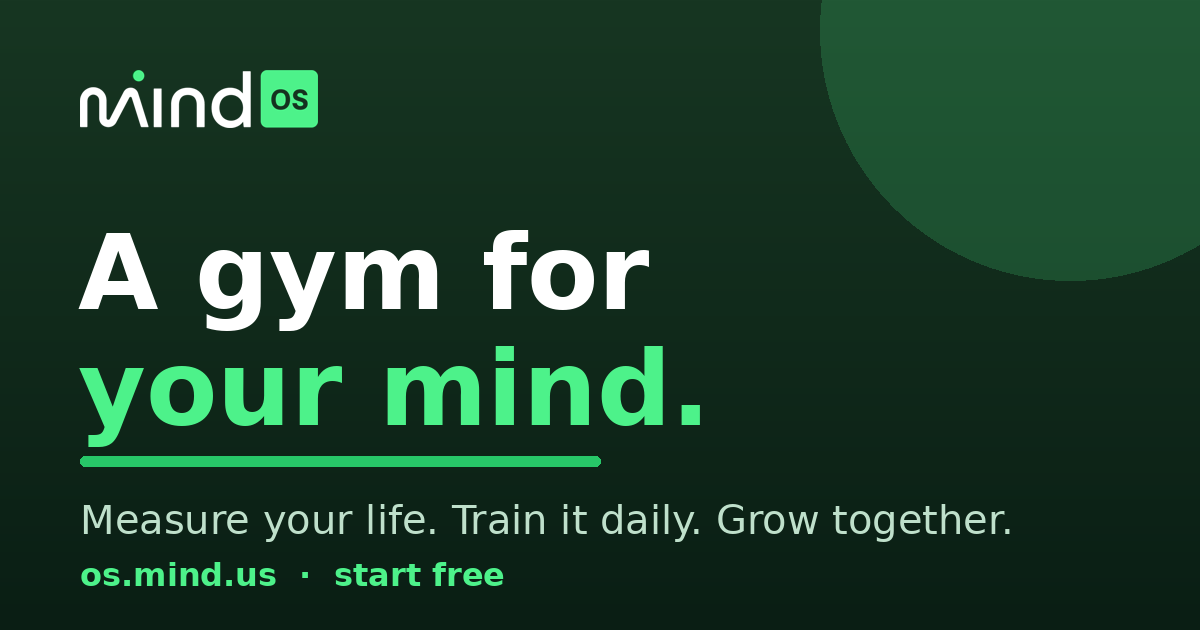
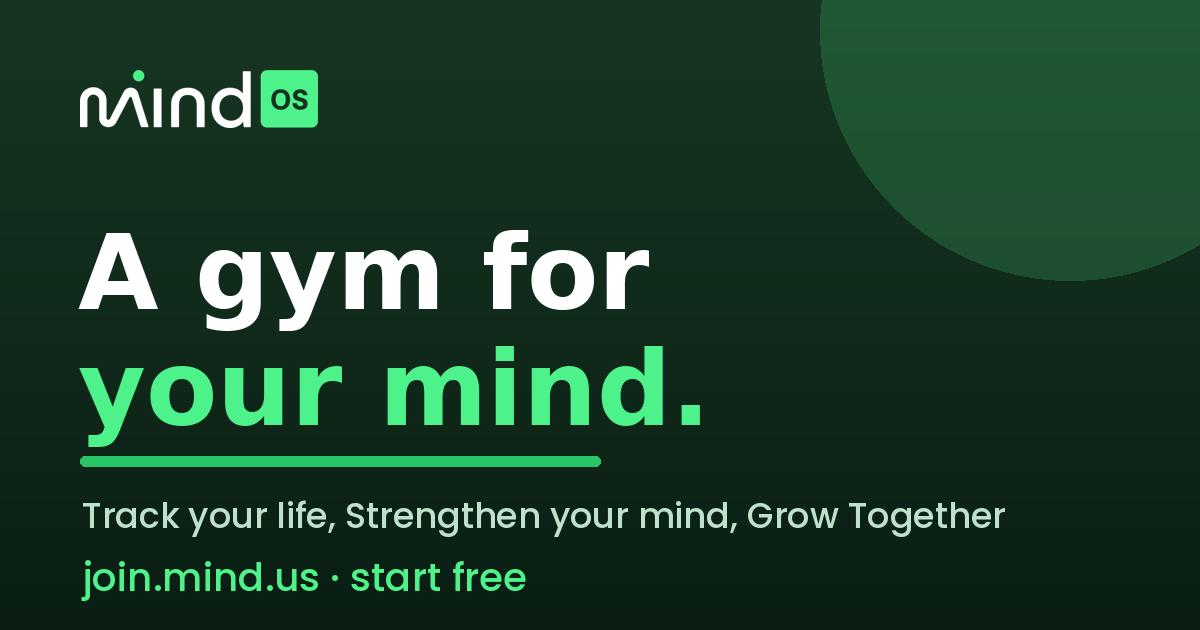
v1.3.0 (#68) Test Harness Dev popout + retain in-test features on staging
- #68: reusable Dev harness (dev-harness.js) shared by index.html + coach.html (DRY)
- Central gating helpers effectivePlan/effectiveRole/featureVisible + IN_TEST/LIVE_RELEASED registries
- Consolidates the 5 old admin test buttons into one collapsed corner popout (admin/is_test_user only)
- Live|Test env toggle (dark-launch) + View-as (Free/Advanced/Community/Coach/Leader/Admin) + persistent override banner
- Read-only write-guard (intercepts supabase insert/update/delete/upsert) while impersonating
- landing/og-image.png refreshed (Track your life / Strengthen your mind / Grow Together; join.mind.us start free)
- staging = main(v1.2.13) content, retains marketplace/POD (=Test). Live main revert deferred to Ari.

Changed region(s): [[0.0617, 0.7841, 0.8325, 0.9651]]

diff --git a/dev-harness.js b/dev-harness.js
@@ -1,0 +1,213 @@
+/* ===================================================================
+   Mind OS — Dev / Test Harness (#68)  ·  REUSABLE COMPONENT (DRY)
+   One widget, shared by the member app (index.html) and coach portal
+   (coach.html). Renders ONE collapsed "🛠 Dev" pill for test users only,
+   consolidating: (A) test actions, (B) Live|Test env toggle + staging link,
+   (C) View-as role/plan switcher, plus a persistent override banner.
+
+   Owns the client flags devEnv + viewAs (single source of truth) in
+   localStorage; the host page reads them via the getters and routes all
+   gating through its own effectivePlan()/effectiveRole()/featureVisible().
+
+   Feature-flagged: this whole surface is inert unless the page calls
+   MindOSDevHarness.init(...) for an admin / is_test_user. Rollback = don't
+   init (or set every flag off). No effect on normal members.
+   =================================================================== */
+(function(){
+  'use strict';
+  if (window.MindOSDevHarness) return; // load once
+
+  var LS_ENV='mos_devEnv', LS_VIEW='mos_viewAs', LS_OPEN='mos_devOpen';
+  function lsGet(k,d){ try{ var v=localStorage.getItem(k); return v==null?d:v; }catch(e){ return d; } }
+  function lsSet(k,v){ try{ localStorage.setItem(k,v); }catch(e){} }
+
+  var state = {
+    env:  (lsGet(LS_ENV,'live')==='test')?'test':'live',
+    view: lsGet(LS_VIEW,'me') || 'me',
+    open: lsGet(LS_OPEN,'0')==='1',
+    opts: null,
+    mounted:false
+  };
+
+  var CSS = ''
+    + '#mosDevPill{position:fixed;right:12px;bottom:12px;z-index:2147483000;'
+    +   'background:#173622;color:#fff;border:none;border-radius:22px;'
+    +   'padding:8px 13px;font:600 12px Poppins,system-ui,sans-serif;cursor:pointer;'
+    +   'box-shadow:0 4px 16px rgba(23,54,34,.32);opacity:.92;display:flex;align-items:center;gap:6px}'
+    + '#mosDevPill:hover{opacity:1}'
+    + '#mosDevPill .dot{width:7px;height:7px;border-radius:50%;background:#4DF28A}'
+    + '#mosDevPill.testenv .dot{background:#F2C14D}'
+    + '#mosDevPanel{position:fixed;right:12px;bottom:54px;z-index:2147483001;width:270px;max-width:calc(100vw - 24px);'
+    +   'background:#fff;color:#0c1a12;border:1px solid #dbe9e0;border-radius:16px;'
+    +   'box-shadow:0 12px 40px rgba(12,26,18,.28);padding:14px;'
+    +   'font-family:Poppins,system-ui,sans-serif;max-height:78vh;overflow:auto;display:none}'
+    + '#mosDevPanel.show{display:block}'
+    + '#mosDevPanel h4{font:700 11px Poppins,sans-serif;letter-spacing:.4px;text-transform:uppercase;'
+    +   'color:#5d6f64;margin:0 0 7px}'
+    + '#mosDevPanel .grp{margin-bottom:14px}'
+    + '#mosDevPanel .grp:last-child{margin-bottom:0}'
+    + '#mosDevPanel .seg{display:flex;flex-wrap:wrap;gap:6px}'
+    + '#mosDevPanel .seg button{flex:1 1 auto;min-width:56px;background:#eef7f1;color:#173622;border:1px solid #dbe9e0;'
+    +   'border-radius:9px;padding:7px 8px;font:600 12px Poppins,sans-serif;cursor:pointer}'
+    + '#mosDevPanel .seg button.on{background:#173622;color:#fff;border-color:#173622}'
+    + '#mosDevPanel .act{display:flex;flex-wrap:wrap;gap:6px}'
+    + '#mosDevPanel .act button{flex:1 1 auto;color:#fff;border:none;border-radius:9px;padding:7px 9px;'
+    +   'font:600 11.5px Poppins,sans-serif;cursor:pointer;opacity:.94}'
+    + '#mosDevPanel .stg{display:block;margin-top:8px;font-size:12px;color:#1e9e54;text-decoration:underline;font-weight:600}'
+    + '#mosDevPanel .rst{width:100%;margin-top:8px;background:#fff;border:1px solid #dbe9e0;color:#5d6f64;'
+    +   'border-radius:9px;padding:7px;font:600 12px Poppins,sans-serif;cursor:pointer}'
+    + '#mosDevPanel .cls{position:absolute;top:10px;right:12px;background:none;border:none;font-size:20px;'
+    +   'line-height:1;color:#9fb3a6;cursor:pointer}'
+    + '#mosDevPanel .note{font-size:11px;color:#9fb3a6;margin-top:6px;line-height:1.4}'
+    + '#mosDevBanner{position:fixed;left:50%;transform:translateX(-50%);bottom:12px;z-index:2147482999;'
+    +   'background:#F2C14D;color:#3a2c07;border-radius:22px;padding:7px 14px;'
+    +   'font:600 12px Poppins,system-ui,sans-serif;box-shadow:0 4px 16px rgba(0,0,0,.18);'
+    +   'display:none;align-items:center;gap:10px}'
+    + '#mosDevBanner.show{display:flex}'
+    + '#mosDevBanner button{background:#3a2c07;color:#fff;border:none;border-radius:14px;'
+    +   'padding:4px 10px;font:600 11px Poppins,sans-serif;cursor:pointer}';
+
+  function injectCss(){
+    if (document.getElementById('mosDevCss')) return;
+    var s=document.createElement('style'); s.id='mosDevCss'; s.textContent=CSS;
+    document.head.appendChild(s);
+  }
+
+  var PLAN_VIEWS=['free','advanced','community'];
+  var ROLE_VIEWS=['coach','leader','admin'];
+
+  function fireEnv(){ try{ state.opts.onEnvChange && state.opts.onEnvChange(state.env); }catch(e){} }
+  function fireView(){ try{ state.opts.onViewChange && state.opts.onViewChange(state.view); }catch(e){} }
+
+  function setEnv(v){ state.env=(v==='test')?'test':'live'; lsSet(LS_ENV,state.env); render(); fireEnv(); updateBanner(); }
+  function setView(v){ state.view=v||'me'; lsSet(LS_VIEW,state.view); render(); fireView(); updateBanner(); }
+  function reset(){ setView('me'); }
+
+  function label(v){
+    if(v==='me')return 'My account';
+    return v.charAt(0).toUpperCase()+v.slice(1);
+  }
+
+  function updateBanner(){
+    var b=document.getElementById('mosDevBanner'); if(!b) return;
+    var active = state.env==='test' || state.view!=='me';
+    if(!active){ b.classList.remove('show'); return; }
+    var bits=[];
+    if(state.env==='test') bits.push('TEST');
+    if(state.view!=='me') bits.push('viewing as '+label(state.view));
+    b.querySelector('.txt').textContent = bits.join(' · ');
+    b.classList.add('show');
+  }
+
+  function render(){
+    var pill=document.getElementById('mosDevPill');
+    var panel=document.getElementById('mosDevPanel');
+    if(!pill||!panel) return;
+    pill.classList.toggle('testenv', state.env==='test');
+    panel.classList.toggle('show', state.open);
+
+    // env segment
+    Array.prototype.forEach.call(panel.querySelectorAll('[data-env]'),function(btn){
+      btn.classList.toggle('on', btn.getAttribute('data-env')===state.env);
+    });
+    // view segment
+    Array.prototype.forEach.call(panel.querySelectorAll('[data-view]'),function(btn){
+      btn.classList.toggle('on', btn.getAttribute('data-view')===state.view);
+    });
+  }
+
+  function build(){
+    injectCss();
+    var o=state.opts;
+
+    var pill=document.createElement('button');
+    pill.id='mosDevPill';
+    pill.innerHTML='<span class="dot"></span>🛠 Dev';
+    pill.title='Test harness (admin/test users only)';
+    pill.onclick=function(){ state.open=!state.open; lsSet(LS_OPEN, state.open?'1':'0'); render(); };
+    document.body.appendChild(pill);
+
+    var panel=document.createElement('div');
+    panel.id='mosDevPanel';
+
+    var html='<button class="cls" title="Close">&times;</button>';
+
+    // A. Test actions
+    if(o.testActions && o.testActions.length){
+      html+='<div class="grp"><h4>Test actions</h4><div class="act">';
+      o.testActions.forEach(function(a,i){
+        html+='<button data-act="'+i+'" title="'+(a.title||'').replace(/"/g,'&quot;')+'" style="background:'+(a.bg||'#173622')+'">'+a.label+'</button>';
+      });
+      html+='</div></div>';
+    }
+
+    // B. Environment
+    html+='<div class="grp"><h4>Environment</h4><div class="seg">'
+        + '<button data-env="live">Live</button>'
+        + '<button data-env="test">Test</button>'
+        + '</div>';
+    if(o.stagingUrl){
+      html+='<a class="stg" href="'+o.stagingUrl+'" target="_blank" rel="noopener">Open staging build ↗</a>';
+    } else {
+      html+='<div class="note">Staging preview URL not set yet (logged for Ari).</div>';
+    }
+    html+='<div class="note">Live = what real users see. Test reveals in-progress features.</div></div>';
+
+    // C. View as
+    if(o.viewAs!==false){
+      var roles=o.viewAsRoles||['me'].concat(PLAN_VIEWS).concat(ROLE_VIEWS);
+      html+='<div class="grp"><h4>View as</h4><div class="seg">';
+      roles.forEach(function(r){
+        html+='<button data-view="'+r+'">'+label(r)+'</button>';
+      });
+      html+='</div><button class="rst" data-view="me">Reset to my account</button>'
+          + '<div class="note">Read-only preview. Writes are blocked while impersonating.</div></div>';
+    }
+
+    panel.innerHTML=html;
+    document.body.appendChild(panel);
+
+    // banner
+    var banner=document.createElement('div');
+    banner.id='mosDevBanner';
+    banner.innerHTML='<span class="txt"></span><button type="button">Reset</button>';
+    banner.querySelector('button').onclick=function(){ reset(); };
+    document.body.appendChild(banner);
+
+    // wire
+    panel.querySelector('.cls').onclick=function(){ state.open=false; lsSet(LS_OPEN,'0'); render(); };
+    Array.prototype.forEach.call(panel.querySelectorAll('[data-env]'),function(btn){
+      btn.onclick=function(){ setEnv(btn.getAttribute('data-env')); };
+    });
+    Array.prototype.forEach.call(panel.querySelectorAll('[data-view]'),function(btn){
+      btn.onclick=function(){ setView(btn.getAttribute('data-view')); };
+    });
+    if(o.testActions){
+      Array.prototype.forEach.call(panel.querySelectorAll('[data-act]'),function(btn){
+        btn.onclick=function(){ try{ o.testActions[+btn.getAttribute('data-act')].onClick(btn); }catch(e){} };
+      });
+    }
+
+    state.mounted=true;
+    render();
+    updateBanner();
+  }
+
+  window.MindOSDevHarness = {
+    // opts: { isTestUser:bool, testActions:[{label,title,bg,onClick}], stagingUrl, viewAs:bool,
+    //         viewAsRoles:[...], onEnvChange(env), onViewChange(view) }
+    init:function(opts){
+      opts=opts||{};
+      if(!opts.isTestUser) return false;      // gate: admin / is_test_user only
+      state.opts=opts;
+      if(document.body){ build(); }
+      else { document.addEventListener('DOMContentLoaded', build); }
+      // fire once so the page applies current flags on load
+      fireEnv(); fireView();
+      return true;
+    },
+    env:  function(){ return state.env; },
+    viewAs:function(){ return state.view; },
+    impersonating:function(){ return state.view!=='me'; }
+  };
+})();

diff --git a/index.html b/index.html
@@ -13,6 +13,9 @@
 <meta name="apple-mobile-web-app-status-bar-style" content="black-translucent">
 <meta name="apple-mobile-web-app-title" content="Mind OS">
 <script>if('serviceWorker' in navigator){window.addEventListener('load',function(){navigator.serviceWorker.register('/sw.js').catch(function(){})});}</script>
+<!-- #68 Test Harness: staging preview URL. PLACEHOLDER — set the real staging Vercel preview URL here (logged in QUESTIONS-FOR-ARI). Empty = harness shows "not set yet". -->
+<script>window.MOS_STAGING_URL='';</script>
+<script src="dev-harness.js"></script>
 <style>
 :root{--green:#4DF28A;--green-d:#27c768;--forest:#173622;--forest2:#0e2417;--page:#EAF6EE;--cream:#F5F5EE;--ink:#0c1a12;--muted:#5d6f64;--line:#dbe9e0;--white:#fff;--shadow:0 10px 34px rgba(23,54,34,.10);--shadow-sm:0 3px 14px rgba(23,54,34,.07);--radius:20px;--t-blue:#4A90D9;--t-bronze:#C77B3B;--t-silver:#9AA7B4;--t-gold:#E3B23C}
 *{box-sizing:border-box;margin:0;padding:0}html{scroll-behavior:smooth}
@@ -905,7 +908,7 @@ sb.auth.onAuthStateChange((_e,s)=>{if(s&&!user){user=s.user;boot();}});
 async function boot(){
   $('#gate').style.display='none';$('#app').style.display='grid';
   loadEntitlement();try{checkCheckoutReturn();}catch(e){}try{loadNotifPrefs();}catch(e){}
-  let {data:m}=await sb.from('members').select('id,alias,bio,passions,superpower,avatar_path,avatar_visibility,is_admin,is_coach,age_bracket,star_sign,onboarding_completed,onboarding_step').eq('id',user.id).maybeSingle();
+  let {data:m}=await sb.from('members').select('id,alias,bio,passions,superpower,avatar_path,avatar_visibility,is_admin,is_coach,is_test_user,age_bracket,star_sign,onboarding_completed,onboarding_step').eq('id',user.id).maybeSingle();
   const isNew=!m;
   if(isNew){const al=genAlias();await sb.from('members').insert({id:user.id,alias:al});await sb.from('member_identities').insert({member_id:user.id,email:user.email});m={alias:al};}
   track('app_open',{returning:!isNew});if(isNew)track('signup',{});
@@ -918,10 +921,10 @@ async function boot(){
   try{const pq=localStorage.getItem('pendingQ4');if(pq){const v=pq.split('.').map(Number);const pl=['purpose','relationships','mind_body','money'];for(let k=0;k<4;k++){await sb.from('q4_scores').upsert({member_id:user.id,pillar:pl[k],score:v[k],updated_at:new Date().toISOString()},{onConflict:'member_id,pillar'});}const ov=Math.round(v.reduce((a,b)=>a+b,0)/4);await sb.from('q4_snapshots').insert({member_id:user.id,purpose:v[0],relationships:v[1],mind_body:v[2],money:v[3],overall:ov});localStorage.removeItem('pendingQ4');setTimeout(()=>toast('✨ Your quiz Q4 score is saved!'),800);}}catch(e){}
   try{const _pg=localStorage.getItem('pendingGoal');if(_pg){const _pt=$('#prioTitle');if(_pt&&!_pt.value)_pt.value=_pg;localStorage.removeItem('pendingGoal');}}catch(e){}
   $('#meAlias').textContent=m.alias||'member';$('#avatar').textContent=(m.alias||'M')[0].toUpperCase();$('#pphoto').textContent=(m.alias||'M')[0].toUpperCase();
-  $('#alias').value=m.alias||'';myAlias=m.alias||'';$('#bio').value=m.bio||'';$('#passions').value=m.passions||'';$('#sp').value=m.superpower||'';$('#ageBracket').value=m.age_bracket||'';$('#starSign').value=m.star_sign||'';isCoach=!!(m&&m.is_coach);try{var _vt=$('#viewToggle');if(_vt)_vt.style.display=isCoach?'':'none';}catch(e){}try{var _bt=$('#brillText');if(_bt)_bt.textContent=AFFIRM[Math.random()*AFFIRM.length|0];}catch(e){}loadCompletion();loadGrowth();loadDailyRing();loadSkillData();
+  $('#alias').value=m.alias||'';myAlias=m.alias||'';$('#bio').value=m.bio||'';$('#passions').value=m.passions||'';$('#sp').value=m.superpower||'';$('#ageBracket').value=m.age_bracket||'';$('#starSign').value=m.star_sign||'';isCoach=!!(m&&m.is_coach);window._isCoach=isCoach;try{var _bt=$('#brillText');if(_bt)_bt.textContent=AFFIRM[Math.random()*AFFIRM.length|0];}catch(e){}loadCompletion();loadGrowth();loadDailyRing();loadSkillData();
   drawRadar();
   await Promise.all([loadGri(),loadQ4(),loadHabits(),loadRes(),loadPrio(),loadPot(),loadProf(),loadPods(),loadRefer(),loadSettings(),loadCoaches(),loadLeaderboard(),loadPodSessions()]);
-  initAvatar(m); initAdmin(m); initBrandLogo();
+  initAvatar(m); initAdmin(m); initBrandLogo(); initDevHarness(m);
 }
 
 // ---- Profile photo (private, owner-only via signed URLs) ----
@@ -976,11 +979,7 @@ function initAdmin(m){
   if(!(m&&m.is_admin)) return;
   $('#adminLogoCard').style.display='';
   try{var _cac=document.getElementById('coachAdminCard');if(_cac)_cac.style.display='';}catch(e){}
-  try{if(!document.getElementById('adminBillTest')){var bt=document.createElement('button');bt.id='adminBillTest';bt.textContent='$1 billing test';bt.title='Admin: run a real $1 charge to verify recurring billing';bt.style.cssText='position:fixed;left:12px;bottom:12px;z-index:9998;background:#173622;color:#fff;border:none;border-radius:10px;padding:9px 13px;font:600 12px Poppins,sans-serif;cursor:pointer;opacity:.85;box-shadow:0 4px 14px rgba(23,54,34,.25)';bt.onclick=function(){goEmbedCheckout('test',bt);};document.body.appendChild(bt);}}catch(e){}
-  try{if(!document.getElementById('adminWaTest')){var wb=document.createElement('button');wb.id='adminWaTest';wb.textContent='WA test';wb.title='Admin: send yourself a test WhatsApp (Twilio sandbox)';wb.style.cssText='position:fixed;left:120px;bottom:12px;z-index:9998;background:#25D366;color:#fff;border:none;border-radius:10px;padding:9px 13px;font:600 12px Poppins,sans-serif;cursor:pointer;opacity:.9;box-shadow:0 4px 14px rgba(23,54,34,.25)';wb.onclick=async function(){var to=prompt('Send a test WhatsApp to (E.164 with country code, e.g. [phone redacted]):');if(!to)return;var o=wb.textContent;wb.disabled=true;wb.textContent='Sending…';try{var r=await sb.functions.invoke('whatsapp-send',{body:{to:to,body:'Mind OS ✅ Your WhatsApp is connected. This is your gym for your mind.'}});var d=r&&r.data;if(d&&d.ok){toast('✓ WhatsApp sent (sid '+(d.message_sid||'')+')');}else{toast('⚠️ '+((d&&(d.error_message||d.error))||(r&&r.error&&r.error.message)||'send failed'));}}catch(e){toast('⚠️ '+e);}wb.disabled=false;wb.textContent=o;};document.body.appendChild(wb);}}catch(e){}
-  try{if(!document.getElementById('adminPushTest')){var pbn=document.createElement('button');pbn.id='adminPushTest';pbn.textContent='🔔 Push';pbn.title='Admin: enable web push on this device';pbn.style.cssText='position:fixed;left:206px;bottom:12px;z-index:9998;background:#27c768;color:#fff;border:none;border-radius:10px;padding:9px 13px;font:600 12px Poppins,sans-serif;cursor:pointer;opacity:.9;box-shadow:0 4px 14px rgba(23,54,34,.25)';pbn.onclick=async function(){await enablePush(pbn);try{var r=await sb.functions.invoke('send-push',{body:{title:'Mind OS 🔔',body:'Push is working — we’ll nudge you at the best time.',url:'/'}});var d=r&&r.data;toast(d&&d.ok?('✓ Test push sent ('+d.sent+'/'+d.subscriptions+')'):('⚠️ '+((d&&d.error)||'send failed')));}catch(e){toast('⚠️ '+e);}};document.body.appendChild(pbn);}}catch(e){}
-  try{if(!document.getElementById('adminVerifyPay')){var vb=document.createElement('button');vb.id='adminVerifyPay';vb.textContent='✓ Verify pay';vb.title='Admin: check Airwallex charges + saved consents for this account';vb.style.cssText='position:fixed;left:300px;bottom:12px;z-index:9998;background:#4A90D9;color:#fff;border:none;border-radius:10px;padding:9px 13px;font:600 12px Poppins,sans-serif;cursor:pointer;opacity:.9;box-shadow:0 4px 14px rgba(23,54,34,.25)';vb.onclick=async function(){var o=vb.textContent;vb.disabled=true;vb.textContent='…';try{var r=await sb.functions.invoke('airwallex-admin-verify',{body:{}});var d=r&&r.data;if(d&&d.ok){var paid=(d.intents||[]).filter(function(x){return x.status==='SUCCEEDED';}).length;toast('Intents '+(d.intents||[]).length+' (paid '+paid+') · consents '+(d.consents||[]).length);alert(JSON.stringify(d,null,2));}else{toast('⚠️ '+((d&&d.error)||'verify failed'));alert(JSON.stringify(d));}}catch(e){toast('⚠️ '+e);}vb.disabled=false;vb.textContent=o;};document.body.appendChild(vb);}}catch(e){}
-  try{if(!document.getElementById('adminEmailTest')){var eb=document.createElement('button');eb.id='adminEmailTest';eb.textContent='✉️ Email';eb.title='Admin: send yourself the welcome-to-Advanced email (test)';eb.style.cssText='position:fixed;left:404px;bottom:12px;z-index:9998;background:#C77B3B;color:#fff;border:none;border-radius:10px;padding:9px 13px;font:600 12px Poppins,sans-serif;cursor:pointer;opacity:.9;box-shadow:0 4px 14px rgba(23,54,34,.25)';eb.onclick=async function(){var o=eb.textContent;eb.disabled=true;eb.textContent='…';try{var r=await sb.functions.invoke('send-membership-email',{body:{test:true,plan:'advanced'}});var d=r&&r.data;toast(d&&d.ok?('✓ Welcome email sent to '+(d.sent_to||'you')):('⚠️ '+((d&&(d.error||d.detail))||'send failed')));}catch(e){toast('⚠️ '+e);}eb.disabled=false;eb.textContent=o;};document.body.appendChild(eb);}}catch(e){}
+  // #68: the 5 fixed-position admin test buttons were consolidated into the "🛠 Dev" popout (initDevHarness). Handlers live there now.
   $('#logoBtn').onclick=()=>$('#logoFile').click();
   $('#logoFile').onchange=async e=>{
     const f=e.target.files[0]; if(!f) return;
@@ -1084,6 +1083,7 @@ function gotoScreen(s){if(s==='coaches'){var c=document.querySelector('#nav a[da
 async function loadPodSessions(){
   var card=$('#podSessionCard'),list=$('#podSessionList');
   if(!card||!list)return;
+  if(!featureVisible('podScheduling')){card.style.display='none';list.innerHTML='';return;}/* #68: in-test until #43 approved to Live */
   var rows;
   try{var r=await sb.rpc('my_upcoming_pod_sessions');rows=(r&&r.data)||[];}catch(e){rows=[];}
   if(!rows.length){card.style.display='none';list.innerHTML='';return;}
@@ -1369,6 +1369,60 @@ async function loadEntitlement(){try{const {data}=await sb.from('member_billing'
 function isEntitled(){return ['trialing','active','comped'].includes(window._billStatus)||['advanced','community'].includes(window._entitlement);}
 function gateAdvanced(feat){toast('🔒 '+(feat||'This')+' is part of Advanced. Start your free 14-day trial in Settings → Plan & billing.');try{gotoScreen('settings');}catch(e){}}
 window.isEntitled=isEntitled;window.loadEntitlement=loadEntitlement;
+/* ===== #68 Test Harness: central gating helpers + feature registries (single source of truth) ===== */
+/* Registries mirror MIND-OS-DEV-STAGES.md. When a feature is approved to Live, move its key
+   from IN_TEST to LIVE_RELEASED and it becomes always-visible. */
+window._isTestUser=false;window._isCoach=window._isCoach||false;
+const IN_TEST={marketplace:'#65',coachesPublic:'#9/#39',podBuilder:'#41',podScheduling:'#43',emailChannel:'#61',resilienceDeepLog:'#66'};
+const LIVE_RELEASED={};
+function devEnv(){try{return (window.MindOSDevHarness&&window.MindOSDevHarness.env&&window.MindOSDevHarness.env())||'live';}catch(e){return 'live';}}
+function devViewAs(){try{return (window.MindOSDevHarness&&window.MindOSDevHarness.viewAs&&window.MindOSDevHarness.viewAs())||'me';}catch(e){return 'me';}}
+function isTestUser(){return !!window._isTestUser;}
+function featureVisible(key){if(Object.prototype.hasOwnProperty.call(LIVE_RELEASED,key))return true;return devEnv()==='test'&&isTestUser();}
+function realPlan(){if(['advanced','community'].includes(window._entitlement))return window._entitlement;if(['trialing','active','comped'].includes(window._billStatus))return (window._plan&&window._plan!=='free')?window._plan:'advanced';return window._plan||'free';}
+function realRole(){if(window._isAdmin)return 'admin';if(window._isCoach)return 'coach';return 'member';}
+const _PLAN_VIEWS={free:1,advanced:1,community:1},_ROLE_VIEWS={coach:1,leader:1,admin:1};
+function effectivePlan(){var v=devViewAs();return _PLAN_VIEWS[v]?v:realPlan();}
+function effectiveRole(){var v=devViewAs();return _ROLE_VIEWS[v]?v:realRole();}
+function devImpersonating(){return devViewAs()!=='me';}
+function devWriteBlocked(){try{if(devImpersonating()){toast('👀 View-as is read-only. Reset to your account to make changes.');return true;}}catch(e){}return false;}
+window.effectivePlan=effectivePlan;window.effectiveRole=effectiveRole;window.featureVisible=featureVisible;window.isTestUser=isTestUser;window.devImpersonating=devImpersonating;window.devWriteBlocked=devWriteBlocked;
+/* One CSS rule hides in-test marketplace/POD entry points when the flag is off (dark-launch / rollback-via-flag). */
+try{var _dgs=document.createElement('style');_dgs.textContent='body.mos-hide-mkt [data-tab="coaches"],body.mos-hide-mkt .morelink[data-go="coaches"],body.mos-hide-mkt [data-go="pods"]{display:none!important}';document.head.appendChild(_dgs);}catch(e){}
+function applyDevGates(){
+  try{var _vt=$('#viewToggle');if(_vt)_vt.style.display=(effectiveRole()==='coach')?'':'none';}catch(e){}
+  try{document.body.classList.toggle('mos-hide-mkt',!featureVisible('marketplace'));}catch(e){}
+  try{if(!featureVisible('podScheduling')){var _pc=$('#podSessionCard');if(_pc)_pc.style.display='none';}}catch(e){}
+}
+window.applyDevGates=applyDevGates;
+/* Read-only guard while impersonating: intercept mutating supabase calls (DRY — one guard covers all writes).
+   Fails open (never blocks) unless a test user is actively viewing-as another identity. */
+(function(){try{if(window._sbGuarded||typeof sb==='undefined'||!sb.from)return;window._sbGuarded=true;
+  var _from=sb.from.bind(sb);
+  function roStub(){var res={data:null,error:{message:'view-as read-only'}};var p=Promise.resolve(res);
+    var stub=new Proxy(function(){},{get:function(_t,prop){
+      if(prop==='then')return p.then.bind(p);
+      if(prop==='catch')return p.catch.bind(p);
+      if(prop==='finally')return p.finally.bind(p);
+      if(prop==='single'||prop==='maybeSingle'||prop==='csv')return function(){return p;};
+      return function(){return stub;};
+    }});return stub;}
+  sb.from=function(t){var q=_from(t);['insert','update','delete','upsert'].forEach(function(op){if(typeof q[op]!=='function')return;var _o=q[op].bind(q);q[op]=function(){if(devImpersonating()){try{toast('👀 View-as is read-only. Reset to your account to save.');}catch(e){}return roStub();}return _o.apply(this,arguments);};});return q;};
+}catch(e){}})();
+function initDevHarness(m){
+  window._isTestUser=!!(m&&(m.is_admin||m.is_test_user));
+  window._isCoach=!!(m&&m.is_coach);
+  applyDevGates();
+  if(!window._isTestUser)return;
+  var A=[
+    {label:'$1 billing test',bg:'#173622',title:'Run a real $1 charge to verify recurring billing',onClick:function(b){goEmbedCheckout('test',b);}},
+    {label:'WA test',bg:'#25D366',title:'Send yourself a test WhatsApp',onClick:async function(b){var to=prompt('Send a test WhatsApp to (E.164, e.g. [phone redacted]):');if(!to)return;var o=b.textContent;b.disabled=true;b.textContent='…';try{var r=await sb.functions.invoke('whatsapp-send',{body:{to:to,body:'Mind OS ✅ Your WhatsApp is connected. This is your gym for your mind.'}});var d=r&&r.data;toast(d&&d.ok?('✓ WhatsApp sent (sid '+(d.message_sid||'')+')'):('⚠️ '+((d&&(d.error_message||d.error))||(r&&r.error&&r.error.message)||'send failed')));}catch(e){toast('⚠️ '+e);}b.disabled=false;b.textContent=o;}},
+    {label:'🔔 Push',bg:'#27c768',title:'Enable web push + send a test',onClick:async function(b){await enablePush(b);try{var r=await sb.functions.invoke('send-push',{body:{title:'Mind OS 🔔',body:'Push is working — we’ll nudge you at the best time.',url:'/'}});var d=r&&r.data;toast(d&&d.ok?('✓ Test push sent ('+d.sent+'/'+d.subscriptions+')'):('⚠️ '+((d&&d.error)||'send failed')));}catch(e){toast('⚠️ '+e);}}},
+    {label:'✓ Verify pay',bg:'#4A90D9',title:'Check Airwallex charges + saved consents',onClick:async function(b){var o=b.textContent;b.disabled=true;b.textContent='…';try{var r=await sb.functions.invoke('airwallex-admin-verify',{body:{}});var d=r&&r.data;if(d&&d.ok){var paid=(d.intents||[]).filter(function(x){return x.status==='SUCCEEDED';}).length;toast('Intents '+(d.intents||[]).length+' (paid '+paid+') · consents '+(d.consents||[]).length);alert(JSON.stringify(d,null,2));}else{toast('⚠️ '+((d&&d.error)||'verify failed'));alert(JSON.stringify(d));}}catch(e){toast('⚠️ '+e);}b.disabled=false;b.textContent=o;}},
+    {label:'✉️ Email',bg:'#C77B3B',title:'Send yourself the welcome email',onClick:async function(b){var o=b.textContent;b.disabled=true;b.textContent='…';try{var r=await sb.functions.invoke('send-membership-email',{body:{test:true,plan:'advanced'}});var d=r&&r.data;toast(d&&d.ok?('✓ Welcome email sent to '+(d.sent_to||'you')):('⚠️ '+((d&&(d.error||d.detail))||'send failed')));}catch(e){toast('⚠️ '+e);}b.disabled=false;b.textContent=o;}}
+  ];
+  try{MindOSDevHarness.init({isTestUser:true,testActions:A,stagingUrl:(window.MOS_STAGING_URL||''),viewAs:true,onEnvChange:function(){applyDevGates();},onViewChange:function(){applyDevGates();}});}catch(e){}
+}
 async function checkCheckoutReturn(retry){var pend=null;try{pend=localStorage.getItem('mos_pending_checkout');}catch(e){}if(!pend)return;await loadEntitlement();if(isEntitled()){try{localStorage.removeItem('mos_pending_checkout');}catch(e){}try{burst();}catch(e){}try{track('checkout_paid',{plan:window._plan});}catch(e){}var pl=(window._plan==='community')?'Advanced + Community':'Advanced';toast('🎉 Payment received, you’re on '+pl+' now. Enjoy.');var btn=document.querySelector('#couponRow');}else if(!retry){setTimeout(function(){checkCheckoutReturn(true);},5000);}}
 window.checkCheckoutReturn=checkCheckoutReturn;
 document.addEventListener('visibilitychange',function(){if(document.visibilityState==='visible'){try{checkCheckoutReturn();}catch(e){}}});

diff --git a/coach.html b/coach.html
@@ -127,6 +127,9 @@ textarea.inp{resize:vertical}
 
 <div class="toast" id="toast"></div>
 
+<!-- #68 Test Harness (shared component, DRY with the member app) -->
+<script>window.MOS_STAGING_URL='';</script>
+<script src="dev-harness.js"></script>
 <script type="module">
 import { createClient } from 'https://cdn.jsdelivr.net/npm/@supabase/supabase-js@2/+esm';
 const sb=createClient('https://hrftsfjjtaclqnmaurfd.supabase.co','sb_publishable_ieqRtgpUZQXOwuaVQ6GNkQ_lS727Rtz');
@@ -145,9 +148,10 @@ sb.auth.onAuthStateChange((_e,s)=>{if(s&&!user){user=s.user;boot();}});
 
 async function boot(){
   $('#auth').style.display='none';$('#app').style.display='block';$('#who').textContent=user.email;
-  const {data:m}=await sb.from('members').select('is_coach').eq('id',user.id).maybeSingle();
+  const {data:m}=await sb.from('members').select('is_coach,is_admin,is_test_user').eq('id',user.id).maybeSingle();
   const {data:pods}=await sb.from('pods').select(POD_COLS).eq('coach_id',user.id).order('created_at');
   myPods=pods||[];
+  try{if(m&&(m.is_admin||m.is_test_user)&&window.MindOSDevHarness){MindOSDevHarness.init({isTestUser:true,testActions:[],stagingUrl:(window.MOS_STAGING_URL||''),viewAs:false});}}catch(e){}
   if(!(m&&m.is_coach)&&!myPods.length){$('#notCoach').style.display='block';return;}
   $('#coachUI').style.display='block';
   loadCockpit();loadPodsList();if(myPods.length)openPodCenter(myPods[0].id,myPods[0].name);